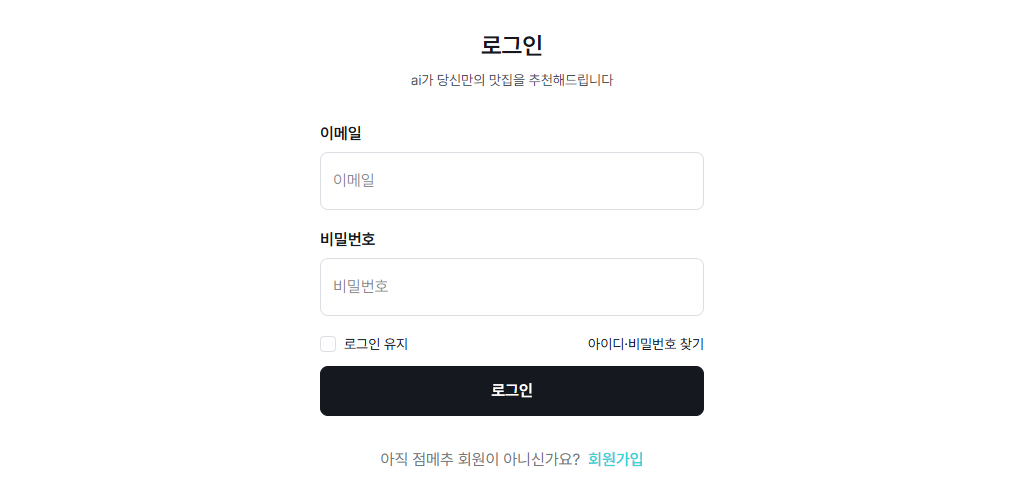
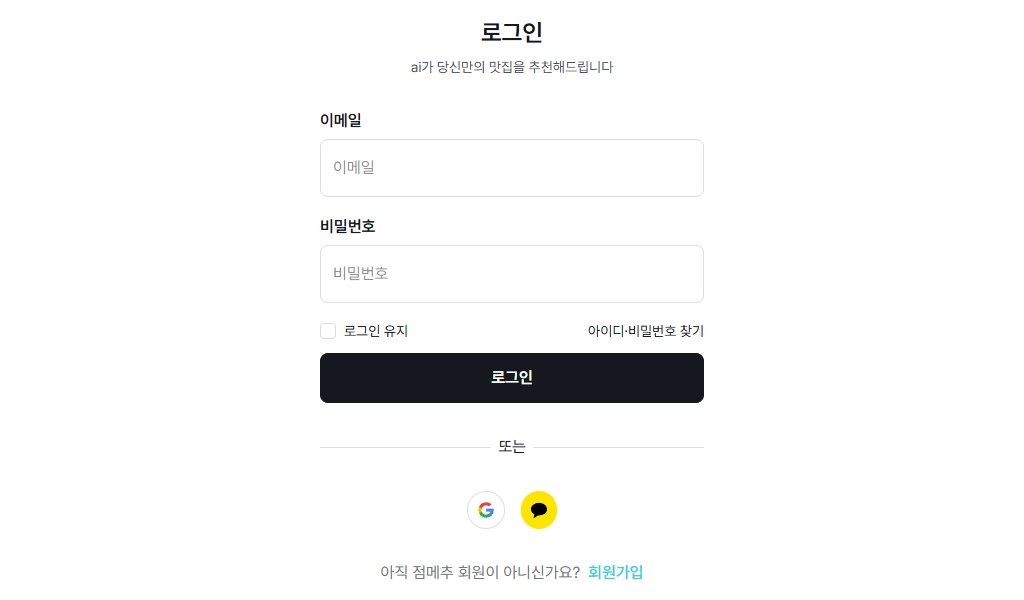
chore: README 로그인 미리보기 이미지 변경 및 환경변수 추가

diff --git a/README.md b/README.md
@@ -47,6 +47,7 @@ jummechu-client/
 ├── index.html
 ├── package.json
 ├── README.md
+├── vercel.json
 ├── vite.config.js
 └── yarn.lock
 ```
@@ -56,7 +57,9 @@ jummechu-client/
 ```bash
 .env
 VITE_GOOGLE_CLIENT_ID=your-google-client-id
+VITE_KAKAO_API_KEY=your-kakao-API_key
 VITE_KAKAO_KEY=your-kakao-key
+VITE_KAKAO_REDIRECT_URI=http://localhost:5173/kakao_callback
 
 .env.development
 VITE_API_BASE_URL=http://localhost:3000
